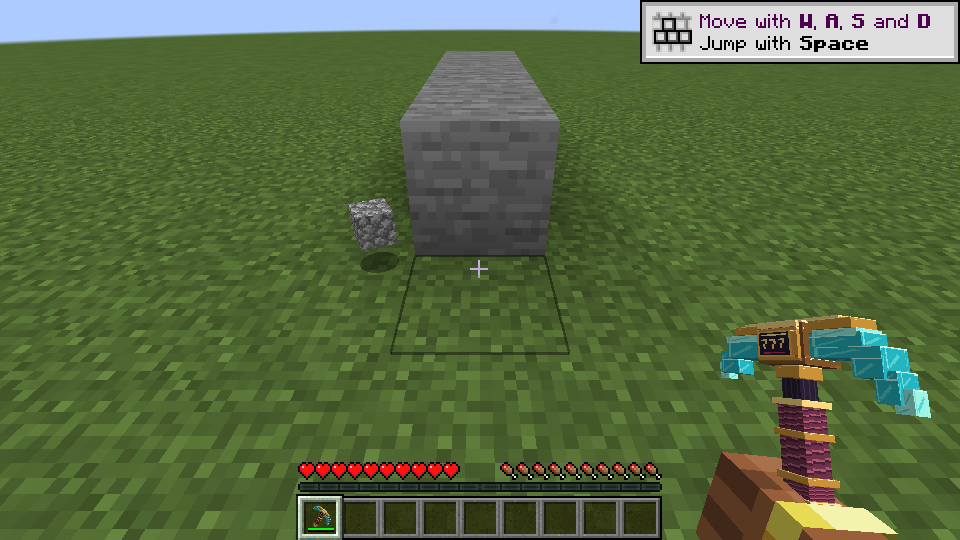
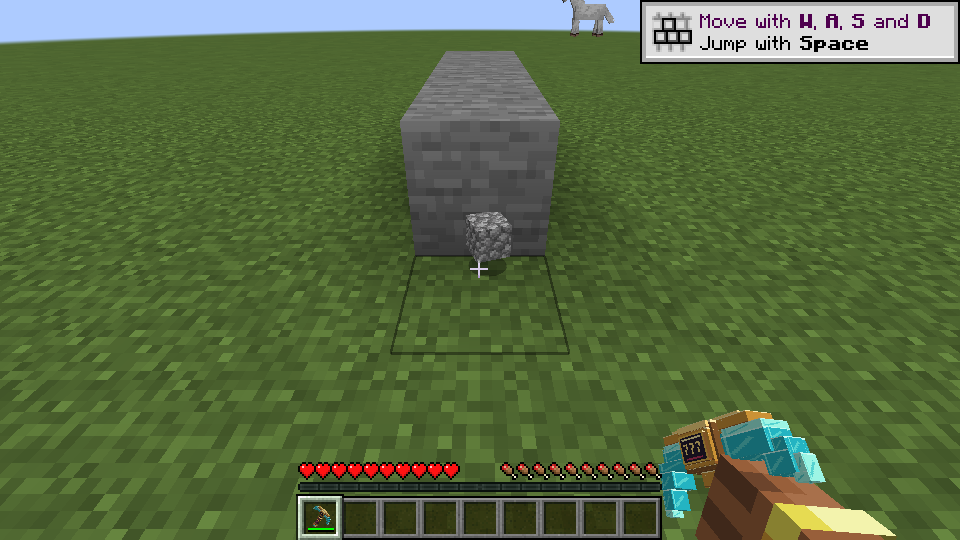
Center diamond-style grip so the full 3D pickaxe stays in frame

diff --git a/src/main/java/ru/ludocraft/gametest/client/PunchyPoseSweep.java b/src/main/java/ru/ludocraft/gametest/client/PunchyPoseSweep.java
@@ -97,7 +97,8 @@ public final class PunchyPoseSweep {
         for (var context : new ItemDisplayContext[]{ItemDisplayContext.FIRST_PERSON_RIGHT_HAND, ItemDisplayContext.FIRST_PERSON_LEFT_HAND}) {
             var from = vanilla.getTransforms().getTransform(context);
             var to = custom.getTransforms().getTransform(context);
-            to.rotation.set(from.rotation); to.translation.set(from.translation); to.scale.set(from.scale).mul(.75F);
+            to.rotation.set(from.rotation); to.translation.set(from.translation); to.translation.x = 0;
+            to.scale.set(from.scale).mul(.75F);
         }
     }
     @SuppressWarnings({"unchecked", "rawtypes"})
@@ -155,11 +156,12 @@ public final class PunchyPoseSweep {
         for (var context : new ItemDisplayContext[]{ItemDisplayContext.FIRST_PERSON_RIGHT_HAND, ItemDisplayContext.FIRST_PERSON_LEFT_HAND}) {
             var actual = custom.getTransforms().getTransform(context);
             var reference = vanilla.getTransforms().getTransform(context);
-            if (!actual.rotation.equals(reference.rotation, .0001F) || !actual.translation.equals(reference.translation, .0001F) ||
+            var expectedTranslation = new org.joml.Vector3f(0, reference.translation.y, reference.translation.z);
+            if (!actual.rotation.equals(reference.rotation, .0001F) || !actual.translation.equals(expectedTranslation, .0001F) ||
                     !actual.scale.equals(new org.joml.Vector3f(reference.scale).mul(.75F), .0001F))
-                throw new AssertionError("LudoCraft first-person orientation/grip differs from compact vanilla diamond pickaxe reference for " + context +
+                throw new AssertionError("LudoCraft pose differs from compact vanilla diamond pickaxe reference for " + context +
                         ": rotation=" + actual.rotation + ", translation=" + actual.translation + ", scale=" + actual.scale +
-                        "; referenceScale=" + reference.scale);
+                        "; expectedTranslation=" + expectedTranslation + ", referenceScale=" + reference.scale);
         }
         System.out.println("PUNCHY_COMPAT_PASS: shipped Punchy profiles and both first-person item transforms match vanilla diamond pickaxe");
     }

diff --git a/tools/build_pickaxe_model.py b/tools/build_pickaxe_model.py
@@ -54,9 +54,9 @@ DISPLAY = {
     'head': {'rotation': [0, 0, 0], 'translation': [0, 13, 0], 'scale': [.8, .8, .8]},
     'thirdperson_righthand': {'rotation': [45, 90, 0], 'translation': [0, -.85, 1.5], 'scale': [.65, .65, .65]},
     'thirdperson_lefthand': {'rotation': [45, 90, 0], 'translation': [0, -.85, 1.5], 'scale': [.65, .65, .65]},
-    # Match Punchy 3.2b's actual first-person display transform for vanilla diamond pickaxe.
-    'firstperson_righthand': {'rotation': [0, -90, 25], 'translation': [1.13, 3.2, 1.13], 'scale': [.51, .51, .51]},
-    'firstperson_lefthand': {'rotation': [0, 90, -25], 'translation': [1.13, 3.2, 1.13], 'scale': [.51, .51, .51]},
+    # Keep the Punchy diamond-pickaxe angle/depth, nudged horizontally inward to center the wider 3D head.
+    'firstperson_righthand': {'rotation': [0, -90, 25], 'translation': [0, 3.2, 1.13], 'scale': [.51, .51, .51]},
+    'firstperson_lefthand': {'rotation': [0, 90, -25], 'translation': [0, 3.2, 1.13], 'scale': [.51, .51, .51]},
 }
 
 def voxels():

diff --git a/tools/check_punchy_reference.py b/tools/check_punchy_reference.py
@@ -5,8 +5,8 @@ from pathlib import Path
 model = json.loads(Path('src/main/resources/assets/ludocraft/models/item/gamblers_pickaxe.json').read_text())
 compat = json.loads(Path('src/main/resources/assets/minecraft/punchy/compat/ludocraft_gamblers_pickaxe.json').read_text())
 expected_display = {
-    'right': {'rotation': [0, -90, 25], 'translation': [1.13, 3.2, 1.13], 'scale': [.51, .51, .51]},
-    'left': {'rotation': [0, 90, -25], 'translation': [1.13, 3.2, 1.13], 'scale': [.51, .51, .51]},
+    'right': {'rotation': [0, -90, 25], 'translation': [0, 3.2, 1.13], 'scale': [.51, .51, .51]},
+    'left': {'rotation': [0, 90, -25], 'translation': [0, 3.2, 1.13], 'scale': [.51, .51, .51]},
 }
 for side, reference in expected_display.items():
     actual = model['display'][f'firstperson_{side}hand']

diff --git a/docs/previews/punchy-grip-review/README.md b/docs/previews/punchy-grip-review/README.md
@@ -1,7 +1,7 @@
 # Сверка хвата с алмазной киркой — проба 75%, не релиз
 
 - Кадры сняты в Minecraft Java 1.21.1, NeoForge 21.1.265 и Punchy 3.2b с настройками по умолчанию.
-- `punchy-grip-vanilla-reference.png` — алмазная кирка; `punchy-grip-released.png` — LudoCraft 1.5.3; `punchy-grip-match-diamond-size.png` — проба с тем же углом и точкой хвата, 3D-модель уменьшена до 75%; `punchy-grip-match-diamond-size-left.png` — левая рука.
-- Снимки показывают фактическую модель в игровом клиенте. Кандидат использует реальные transforms и стандартный Punchy-профиль алмазной кирки; уменьшен только размер объёмной модели, чтобы её широкая головка помещалась в кадр.
-- Папка содержит только тестовые кадры. Новый JAR публикуется лишь после прохождения штатных проверок модели и обоих игровых клиентов.
-- Это автоматическое сравнение в изолированном клиенте, не ручная проверка полного FTB Evolution. Шейдеры, пользовательские настройки Punchy и все фазы анимаций не покрыты.
+- `punchy-grip-vanilla-reference.png` — алмазная кирка; `punchy-grip-released.png` — LudoCraft 1.5.3; `punchy-grip-match-diamond-size.png` — проба с тем же углом и глубиной, объёмная модель уменьшена до 75% и сдвинута чуть внутрь, к ладони; `punchy-grip-match-diamond-size-left.png` — левая рука.
+- Снимки показывают настоящую модель в игровом клиенте. Профиль Punchy стандартный; изменение касается только визуального положения/масштаба модели LudoCraft.
+- Новый JAR публикуется лишь после прохождения штатных проверок модели и обоих игровых клиентов.
+- Это автоматическое сравнение в изолированном клиенте, не ручная проверка полного FTB Evolution. Шейдеры, пользовательские настройки Punchy и все фазы анимаций не проверялись.

diff --git a/docs/previews/v1.5.4/README.md b/docs/previews/v1.5.4/README.md
@@ -4,7 +4,7 @@
 
 ## Что изменено
 
-Для первого лица направление, точка хвата и Punchy-профиль кирки Лудомании соответствуют обычной алмазной кирке, считанной из работающего клиента Punchy 3.2b. Объёмная LudoCraft-модель отображается в 75% размера ванильной кирки, чтобы её широкая 3D-головка не занимала весь экран; translation и rotation совпадают с reference для обеих рук. Item-specific профиль Punchy соответствует стандартному pickaxe: масштаб 1, все смещения/вращения/pivot 0. Тест клиента сравнивает разрешённые профили и baked item display transforms с ванильным `minecraft:diamond_pickaxe`, включая уменьшение масштаба до 75%.
+Для первого лица сохранён фактический угол алмазной кирки из Punchy 3.2b. Поскольку у объёмной головки нет прозрачных краёв спрайта, модель уменьшена до 75% и сдвинута по горизонтали чуть к ладони; высота/глубина и вращение следуют ванильному reference. Item-specific профиль Punchy соответствует стандартному pickaxe: масштаб 1, все смещения/вращения/pivot 0. Тест клиента сравнивает разрешённый профиль и baked transforms с `minecraft:diamond_pickaxe` в обеих руках, проверяя отдельный масштаб и смещение для более широкой 3D-модели.
 
 Сама 3D-модель, её текстура, геометрия (241 quad), третье лицо и игровой код не менялись. Положение профиля ограничено только `ludocraft:gamblers_pickaxe`; глобальные руки и анимации Punchy не затрагиваются.
 

diff --git a/README.md b/README.md
@@ -8,9 +8,9 @@
 
 ## 1.5.4 — вид кирки как у алмазной в Punchy
 
-Исправлена поза предмета: совпадают угол, положение в ладони и Punchy-профиль
-обычной алмазной кирки для обеих рук. 3D-модель показана в масштабе 75% от алмазной,
-чтобы объёмная головка помещалась в кадр и рукоять оставалась у ладони.
+Исправлена поза предмета: сохранён угол алмазной кирки, а модель сдвинута чуть внутрь
+к ладони (с учётом широкой 3D-головки) и уменьшена до 75% её размера. Punchy-профиль
+стандартный, обе руки; голова помещается в кадре, рукоять остаётся у ладони.
 Модель и текстура сохранены; профиль применяется только к `ludocraft:gamblers_pickaxe`.
 
 Проверка сравнивает реальную алмазную кирку и LudoCraft при Punchy 3.2b со стандартными
